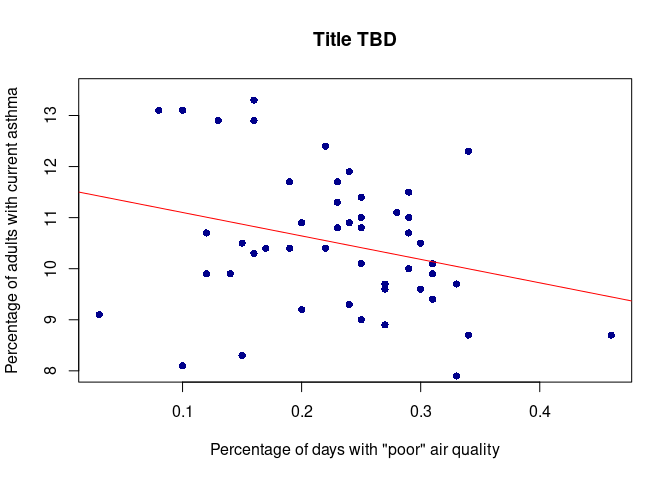
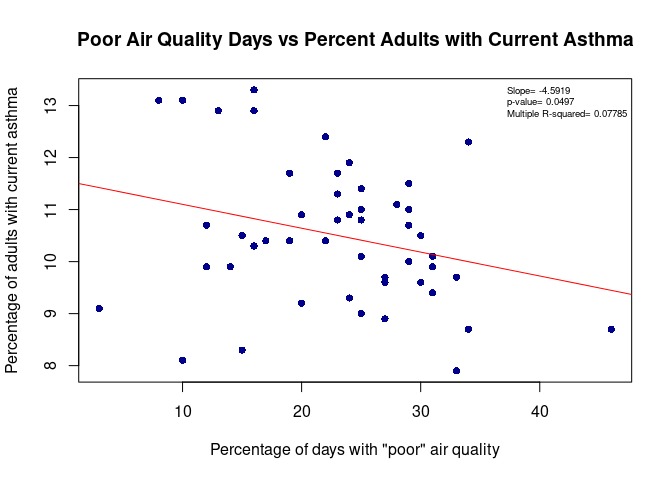
Homework 12 Update

diff --git a/Final-Rmarkdown-Report.md b/Final-Rmarkdown-Report.md
@@ -1,7 +1,7 @@
 Final Rmarkdown Report
 ================
 Corinne Hollyman
-2025-10-30
+2025-11-13
 
 - [ABSTRACT](#abstract)
 - [BACKGROUND](#background)
@@ -11,7 +11,8 @@ Corinne Hollyman
   - [Prediction](#prediction)
 - [METHODS](#methods)
   - [First Analysis- Scatterplot](#first-analysis--scatterplot)
-  - [Second Analysis- TBD](#second-analysis--tbd)
+  - [Second Analysis- Pearson Correlation
+    Test](#second-analysis--pearson-correlation-test)
 - [DISCUSSION](#discussion)
   - [Interpretation of Scatterplot](#interpretation-of-scatterplot)
   - [Interpretation of Second
@@ -25,22 +26,37 @@ FILL OUT
 
 # BACKGROUND
 
-FILL OUT
+Asthma is a chronic, or long-term condition that affects the airways of
+the lungs. Asthma causes inflammation of these passages, which in turn
+narrows the airways. This narrowing causes symptoms like shortness of
+breath, chest tightness, and coughing. While many consider asthma to be
+a childhood disease, asthma is also common in adults, affecting nearly
+23 million US adults (Asthma in Adults \| AAFA.org, 2024). Asthma
+triggers are things that can set off or worsen asthma symptoms, and
+include pollen, exercise, viral infections, or cold air (Keet et al.,
+2017). Air pollution, both indoor and outdoor, has also been linked to
+asthma symptoms (What Is Asthma? \| NHLBI, NIH, 2024). While air
+pollution and asthma have been determined to be linked (Keet et al.,
+2017), it is not entirely clear if air pollution necessarily causes
+asthma, or if it simply causes or exacerbates symptoms in individuals
+already affected with asthma.
 
 # STUDY QUESTION and HYPOTHESIS
 
 ## Questions
 
-DRAFT: Is there a correlation between the proportion of days with poor
-air quality and the percent of adults with current asthma?
+Is there a correlation between the proportion of days with poor air
+quality and the percent of adults with current asthma?
 
 ## Hypothesis
 
-FILL OUT
+If poor air quality and asthma prevalence are linked, then states with
+more days with poor air quality will have more adults with asthma.
 
 ## Prediction
 
-FILL OUT
+States with more days with recorded poor air quality will have higher
+prevalence of adults with asthma.
 
 # METHODS
 
@@ -48,52 +64,57 @@ FILL OUT
 
 ## First Analysis- Scatterplot
 
+This visualization plots the proportion of days with poor air quality on
+the x-axis, and the percentage of adults with current asthma on the
+y-axis. Each data point corresponds to a state in the US. The slope of
+the red line is the result of a linear regression model performed on the
+data.
+
 ``` r
-my_data <- read.csv("Data for Final Rmarkdown Project.csv")
+#importing data
+my_data <- read.csv("Updated Final Data.csv")
 
-regression_model <- lm(my_data$Percent.Adults.with.Current.Asthma ~ my_data$Poor.Air.Quality.Days)
 
-plot(my_data$Poor.Air.Quality.Days, my_data$Percent.Adults.with.Current.Asthma,
-     ylim = c(8,13.5),
-     main = "Title TBD",
+#running a linear regression model on the data
+regression_model <- lm(my_data$Percent.Adults.with.Current.Asthma ~ my_data$Percentage.of..poor.air.quality..days)
+
+
+#creating scatterplot 
+plot(my_data$Percentage.of..poor.air.quality..days, my_data$Percent.Adults.with.Current.Asthma,
+     main = "Poor Air Quality Days vs Percent Adults with Current Asthma",
      xlab = "Percentage of days with \"poor\" air quality",
      ylab = "Percentage of adults with current asthma",
      pch = 16,
      col = "blue4")
 
+#adding regression line to the plot
 abline(regression_model, col="red") 
+
+#adding a legend with the slope, p-value, and multiple r-squared values from the regession line
+legend("topright",
+       legend= c("Slope= -4.5919","p-value= 0.0497", "Multiple R-squared= 0.07785"),
+       cex = 0.6,
+       bty = "n")
 ```
 
 ![](Final-Rmarkdown-Report_files/figure-gfm/unnamed-chunk-1-1.png)<!-- -->
 
-## Second Analysis- TBD
+## Second Analysis- Pearson Correlation Test
 
-This can be ignored, I was just testing this.
+This test measures the correlation between the proportion of days with
+poor air quality and the percent of adults with current asthma in each
+state. The analysis calculates a Pearson Correlation value between -1
+and 1. A high score indicates high similarity, while a score near 0
+indicates no correlation (ADD SOURCE).
 
 ``` r
-regression_model <- lm(my_data$Percent.Adults.with.Current.Asthma ~ my_data$Poor.Air.Quality.Days)
+#run correlation test
+rce <- cor(my_data$Percentage.of..poor.air.quality..days, my_data$Percent.Adults.with.Current.Asthma)
 
-summary(regression_model)
+rce #view test result
 ```
 
-    ## 
-    ## Call:
-    ## lm(formula = my_data$Percent.Adults.with.Current.Asthma ~ my_data$Poor.Air.Quality.Days)
-    ## 
-    ## Residuals:
-    ##     Min      1Q  Median      3Q     Max 
-    ## -3.0004 -0.7320 -0.1886  0.8188  2.4752 
-    ## 
-    ## Coefficients:
-    ##                               Estimate Std. Error t value Pr(>|t|)    
-    ## (Intercept)                    11.5595     0.5538  20.873   <2e-16 ***
-    ## my_data$Poor.Air.Quality.Days  -4.5919     2.2811  -2.013   0.0497 *  
-    ## ---
-    ## Signif. codes:  0 '***' 0.001 '**' 0.01 '*' 0.05 '.' 0.1 ' ' 1
-    ## 
-    ## Residual standard error: 1.301 on 48 degrees of freedom
-    ## Multiple R-squared:  0.07785,    Adjusted R-squared:  0.05864 
-    ## F-statistic: 4.052 on 1 and 48 DF,  p-value: 0.04974
+    ## [1] -0.2790206
 
 # DISCUSSION
 
@@ -111,4 +132,15 @@ FILL OUT
 
 # REFERENCES
 
-FILL OUT
+1.  Asthma in adults \| AAFA.org. (2024, October 7). Asthma & Allergy
+    Foundation of America.
+    <https://aafa.org/asthma/living-with-asthma/asthma-in-adults/>
+
+2.  Keet, C. A., Keller, J. P., & Peng, R. D. (2017). Long-Term Coarse
+    Particulate Matter Exposure Is Associated with Asthma among Children
+    in Medicaid. American Journal of Respiratory and Critical Care
+    Medicine, 197(6), 737–746.
+    <https://doi.org/10.1164/rccm.201706-1267oc>
+
+3.  What is asthma? \| NHLBI, NIH. (2024, April 17). NHLBI, NIH.
+    <https://www.nhlbi.nih.gov/health/asthma>
